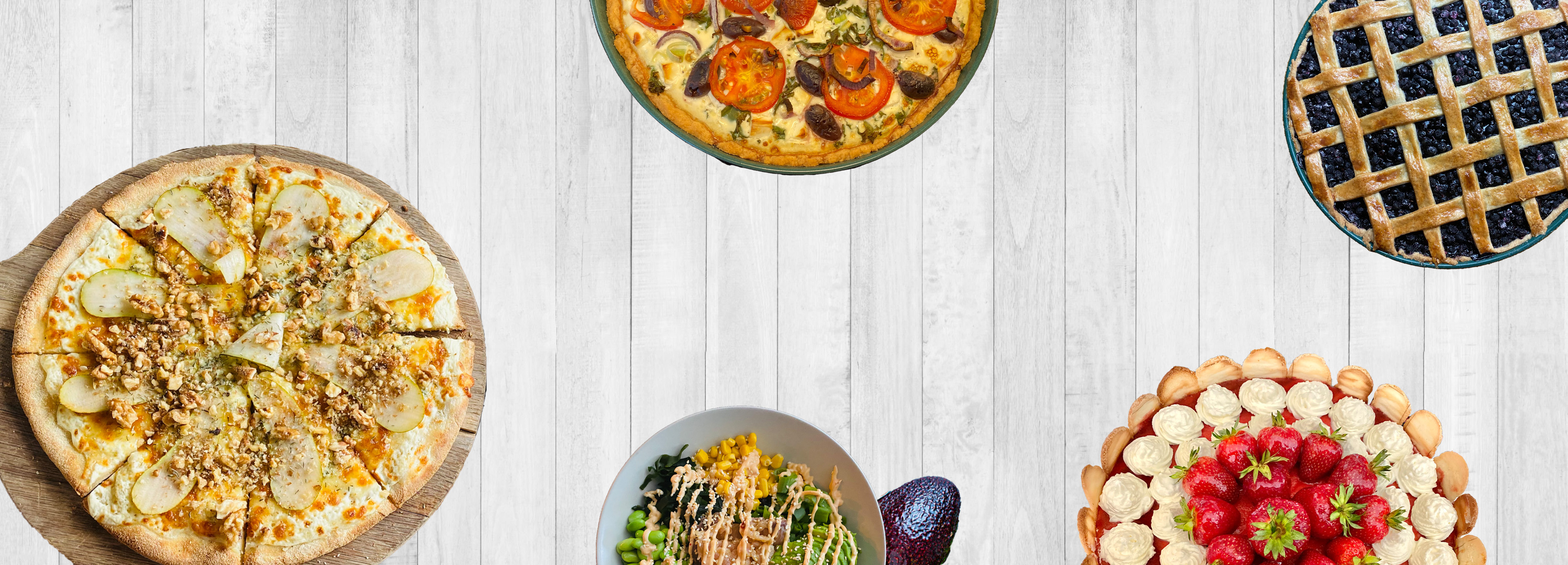
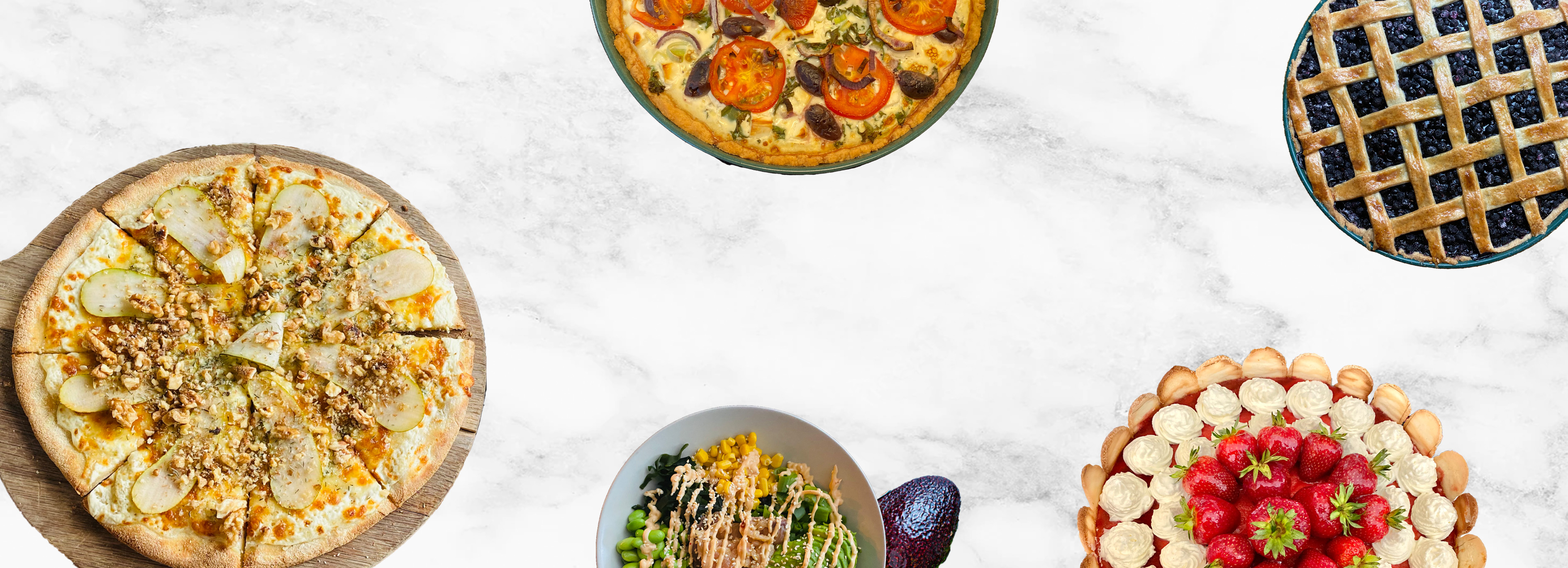
update

diff --git a/sass/style.scss b/sass/style.scss
@@ -27,6 +27,7 @@ h1 {
   font-size: 3rem;
   text-align: center;
   justify-content: space-around;
+  background-image: url("../img/marmor3.webp");
 }
 h2 {
   margin-bottom: 12px;
@@ -52,6 +53,7 @@ p {
 .companyName {
   display: flex;
   flex-direction: column;
+  
 }
 
 .navBar {
@@ -86,7 +88,6 @@ p {
         font-size: 1.6rem;
         text-decoration: none;
         font-weight: bold;
-        cursor: pointer;
         @media (max-width: 700px) {
           font-size: 1.5rem;
         }

diff --git a/index.html b/index.html
@@ -45,11 +45,12 @@
     </nav>
 
     <main>
+      <section></section>
       <section>
         <h2 class="imgText">Välkommen till vårt hemmakök!</h2>
         <img
           class="imgFullView"
-          src="img/backgroundImg8.jpg"
+          src="img/bakgrund-wide1.jpg"
           alt="Bild på teamet"
         />
       </section>

diff --git a/css/style.css b/css/style.css
@@ -25,6 +25,7 @@ h1 {
   font-size: 3rem;
   text-align: center;
   justify-content: space-around;
+  background-image: url("../img/marmor3.webp");
 }
 
 h2 {
@@ -86,7 +87,6 @@ p {
   font-size: 1.6rem;
   text-decoration: none;
   font-weight: bold;
-  cursor: pointer;
 }
 @media (max-width: 700px) {
   .navBar__opt__list__link {

diff --git a/sass/_variables.scss b/sass/_variables.scss
@@ -20,3 +20,14 @@ $media-S: 850px;
 $media-M: 1000px;
 $media-L: 1200px;
 $media-XL: 1400px;
+
+@mixin btnEffect {
+  :hover {
+    opacity: 0.8;
+    box-shadow: 0 0 0 2px;
+    transition: 0.5s;
+  }
+  :active {
+    transform: translate(0px, 1px);
+  }
+}

diff --git a/sass/hem.scss b/sass/hem.scss
@@ -11,7 +11,7 @@ main {
     & .imgText {
       position: absolute;
       align-self: center;
-      top: 10%;
+      top: 40%;
       left: 50%;
       transform: translateX(-50%);
       // top: 40%;

diff --git a/css/hem.css b/css/hem.css
@@ -8,7 +8,7 @@ main section {
 main section .imgText {
   position: absolute;
   align-self: center;
-  top: 10%;
+  top: 40%;
   left: 50%;
   transform: translateX(-50%);
   font-size: 1.8rem;
